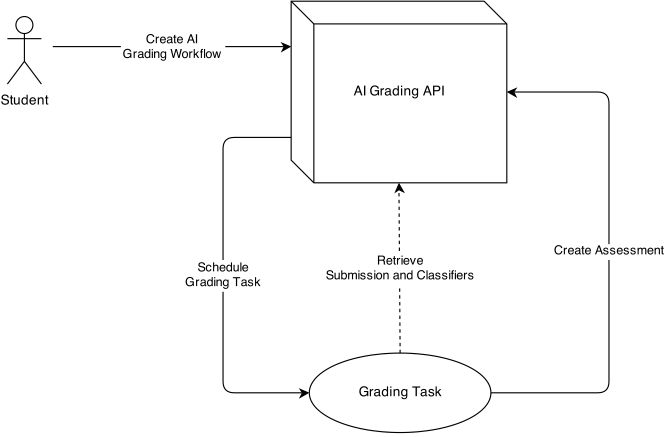
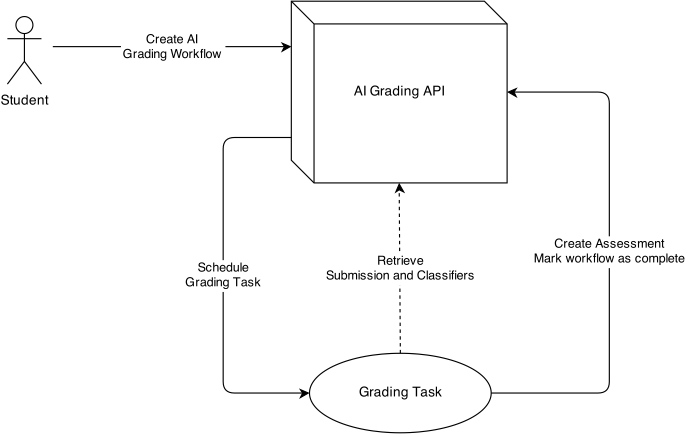
Clarify difference between TrainingExample and Assessment; add worker version to workflows

diff --git a/doc/source/architecture/ai_grading.rst b/doc/source/architecture/ai_grading.rst
@@ -69,6 +69,8 @@ Entities
 
 * **Assessment**: Specifies the scores a submission received for each criterion in a rubric.
 
+* **TrainingExample**: An example essay and associated scores (options selected in a rubric).
+
 * **Classifier**: A function mapping submissions to scores.
 
 * **Task** and **Task queue**
@@ -142,8 +144,8 @@ Procedure:
     a. Retrieve the submission and classifiers from persistent storage or a cache.
 
         i. If the **ClassifierSet** is null, then the classifier wasn't available when the student created the submission.
-        ii. Since we cannot grade the student without a classifier, we stop the task without marking the workflow as complete.
-        iii. When a **Training Task** completes, incomplete **Grading Tasks** for the rubric are automatically rescheduled.
+        ii. Since we cannot grade the student without a classifier, we create the **AI Grading Workflow** record but do not schedule the **Grading Task**.  This means that the workflow will not be marked complete.
+        iii. When a **Training Task** completes, update incomplete **Grading Tasks** with null **ClassifierSets** with the newly created **ClassifierSet**, then schedule the **GradingTasks**.
 
     b. **Optimization**: Check whether a completed **AI Grading Workflow** exists for this submission using the same **ClassifierSet**.
 
@@ -172,21 +174,20 @@ Parameter: AI Training Workflow ID
 
 Procedure:
 
-1. Course staff create **Assessments** (marked as staff assessments) for student submissions.
+1. Course staff create **TrainingExamples** (using the same infrastructure, although not necessarily the same UI, as "Student Training" for peer assessment).
 
 2. Course staff request that a classifier be trained based on staff assessments.  Using the **AI Grading API**, the request handler:
 
-    a. Creates an **AI Training Workflow** record in the database, associated with **Assessment** records (which define the training set) and an **ML Algorithm ID**.
+    a. Creates an **AI Training Workflow** record in the database, associated with **TrainingExamples** and an **ML Algorithm ID**.
     b. Schedules a **Training Task** parametrized by the workflow ID.
 
 3. A worker picks up the **Training Task** and uses the **AI Grading API** to:
 
-    a. Retrieve the assessments from persistent storage or a cache.
-    b. Verify that all assessments are using the same rubric (compare the content hash of each rubric)
-    c. Retrieve the submissions associated with each assessment from persistent storage or a cache.
-    d. Train a classifier for each rubric criterion.  Choose the training algorithm based on the **ML Algorithm ID**.
-    e. Commit the trained classifiers to persistent storage.
-    f. Mark the **AI Training Workflow** as complete.
+    a. Retrieve the *TrainingExamples* from persistent storage or a cache.
+    b. Verify that all *TrainingExamples* use the same rubric.
+    c. Train a classifier for each rubric criterion.  Choose the training algorithm based on the **ML Algorithm ID**.
+    d. Commit the trained classifiers to persistent storage.
+    e. Mark the **AI Training Workflow** as complete.
 
 4. The worker uses the **AI Grading API** to schedule **AI Grading Tasks** for submissions made before the model was trained.  This is the same procedure used to manually reschedule grading tasks after a non-recoverable error (see :ref:`recovery_from_failure`).
 
@@ -239,7 +240,7 @@ Data Model
 1. **GradingWorkflow**
 
     a. Submission UUID (varchar)
-    b. Rubric (Foreign key)
+    b. Rubric UUID (varchar)
     c. ClassifierSet (Foreign Key, Nullable)
     d. Assessment (Foreign Key, Nullable)
     e. Scheduled at (timestamp): The time the task was placed on the queue.
@@ -249,47 +250,53 @@ Data Model
        failed grading tasks in a particular course.
     i. Item ID (varchar): The ID of the item (problem) associated with the submission.  Useful for rescheduling
        failed grading tasks in a particular item in a course.
+    j. Worker version (varchar): Identifier for the code running on the worker when the task was started.  Useful for error tracking.
 
 2. **TrainingWorkflow**
 
     a. Algorithm ID (varchar)
-    b. Many-to-many relation with **Assessment**.
-    c. ClassifierSet (Foreign Key)
-    d. Scheduled at (timestamp): The time the task was placed on the queue.
-    e. Started at (timestamp): The time the task was picked up by the worker.
-    f. Completed at (timestamp): The time the task was completed.  If set, the task is considered complete.
+    b. Rubric UUID (varchar)
+    c. Many-to-many relation with **TrainingExample**.  We can re-use examples for multiple workflows.
+    d. ClassifierSet (Foreign Key)
+    e. Scheduled at (timestamp): The time the task was placed on the queue.
+    f. Started at (timestamp): The time the task was picked up by the worker.
+    g. Completed at (timestamp): The time the task was completed.  If set, the task is considered complete.
+    h. Worker version (varchar): Identifier for the code running on the worker when the task was started.  Useful for error tracking.
+
+3. **TrainingExample**
+
+    a. Response text (text)
+    b. Options selected (many to many relation with CriterionOption)
 
 4. **ClassifierSet**
 
     a. Rubric (Foreign Key)
     b. Created at (timestamp)
 
-3. **Classifier**
+5. **Classifier**
 
     a. ClassifierSet (Foreign Key)
     b. URL for trained classifier (varchar)
     c. Algorithm ID (varchar)
 
-4. **Assessment** (same as current implementation)
+6. **Assessment** (same as current implementation)
 
     a. Submission UUID (varchar)
     b. Rubric (Foreign Key)
 
-5. **AssessmentPart** (same as current implementation)
+7. **AssessmentPart** (same as current implementation)
 
     a. Assessment (Foreign Key)
     b. Option (Foreign Key to a **CriterionOption**)
 
-6. **Rubric** (same as current implementation)
+8. **Rubric** (same as current implementation)
 
-    a. Content hash (varchar)
-
-7. **Criterion** (same as current implementation)
+9. **Criterion** (same as current implementation)
 
     a. Rubric (Foreign Key)
     b. Name (varchar)
 
-8. **CriterionOption** (same as current implementation)
+10. **CriterionOption** (same as current implementation)
 
     a. Criterion (Foreign Key)
     b. Points (positive integer)
@@ -297,9 +304,6 @@ Data Model
 
 
 Notes:
-
-    * We use many-to-many relations to avoid adding foreign keys to **Assessment**, which should
-      be independent of AI-grading.
 
     * We use a URL to reference the trained classifier so we can avoid storing it in the database.
       In practice, the URL will almost certainly point to Amazon S3, but in principle we could use
